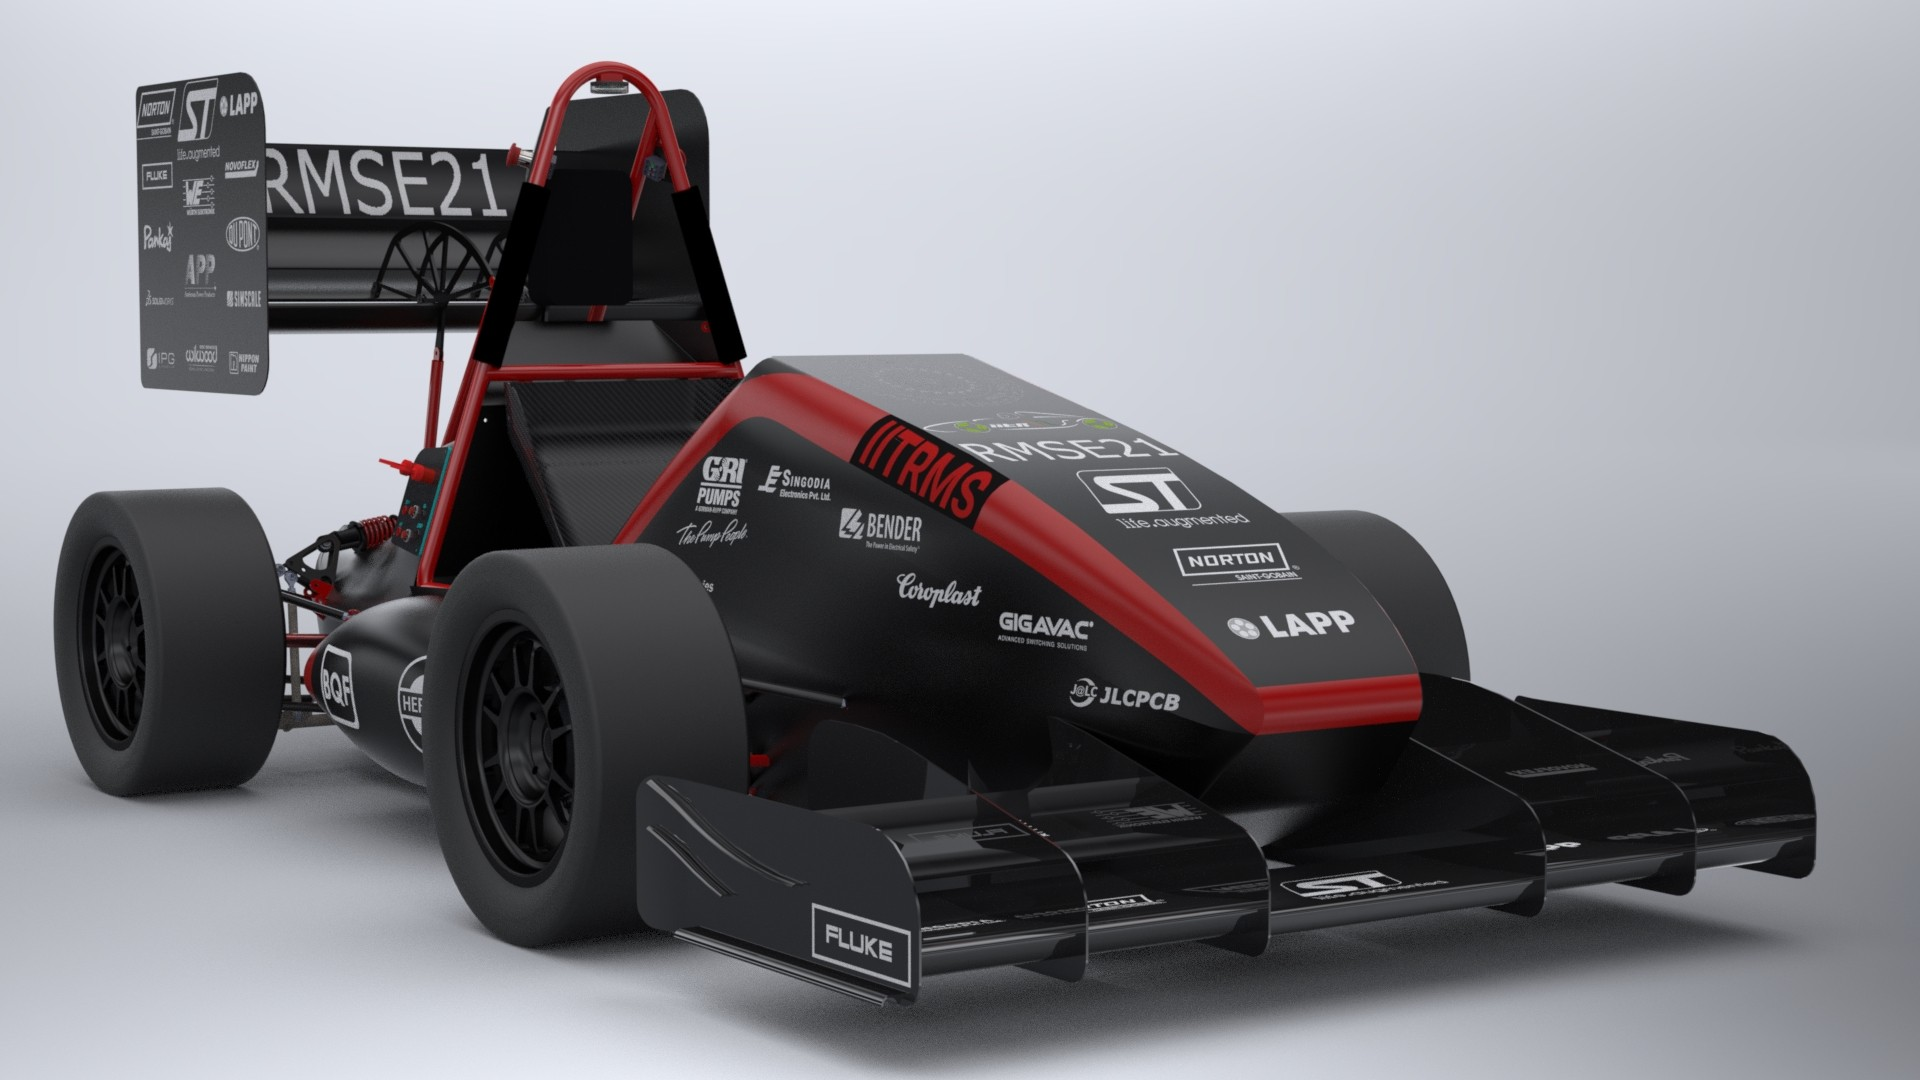
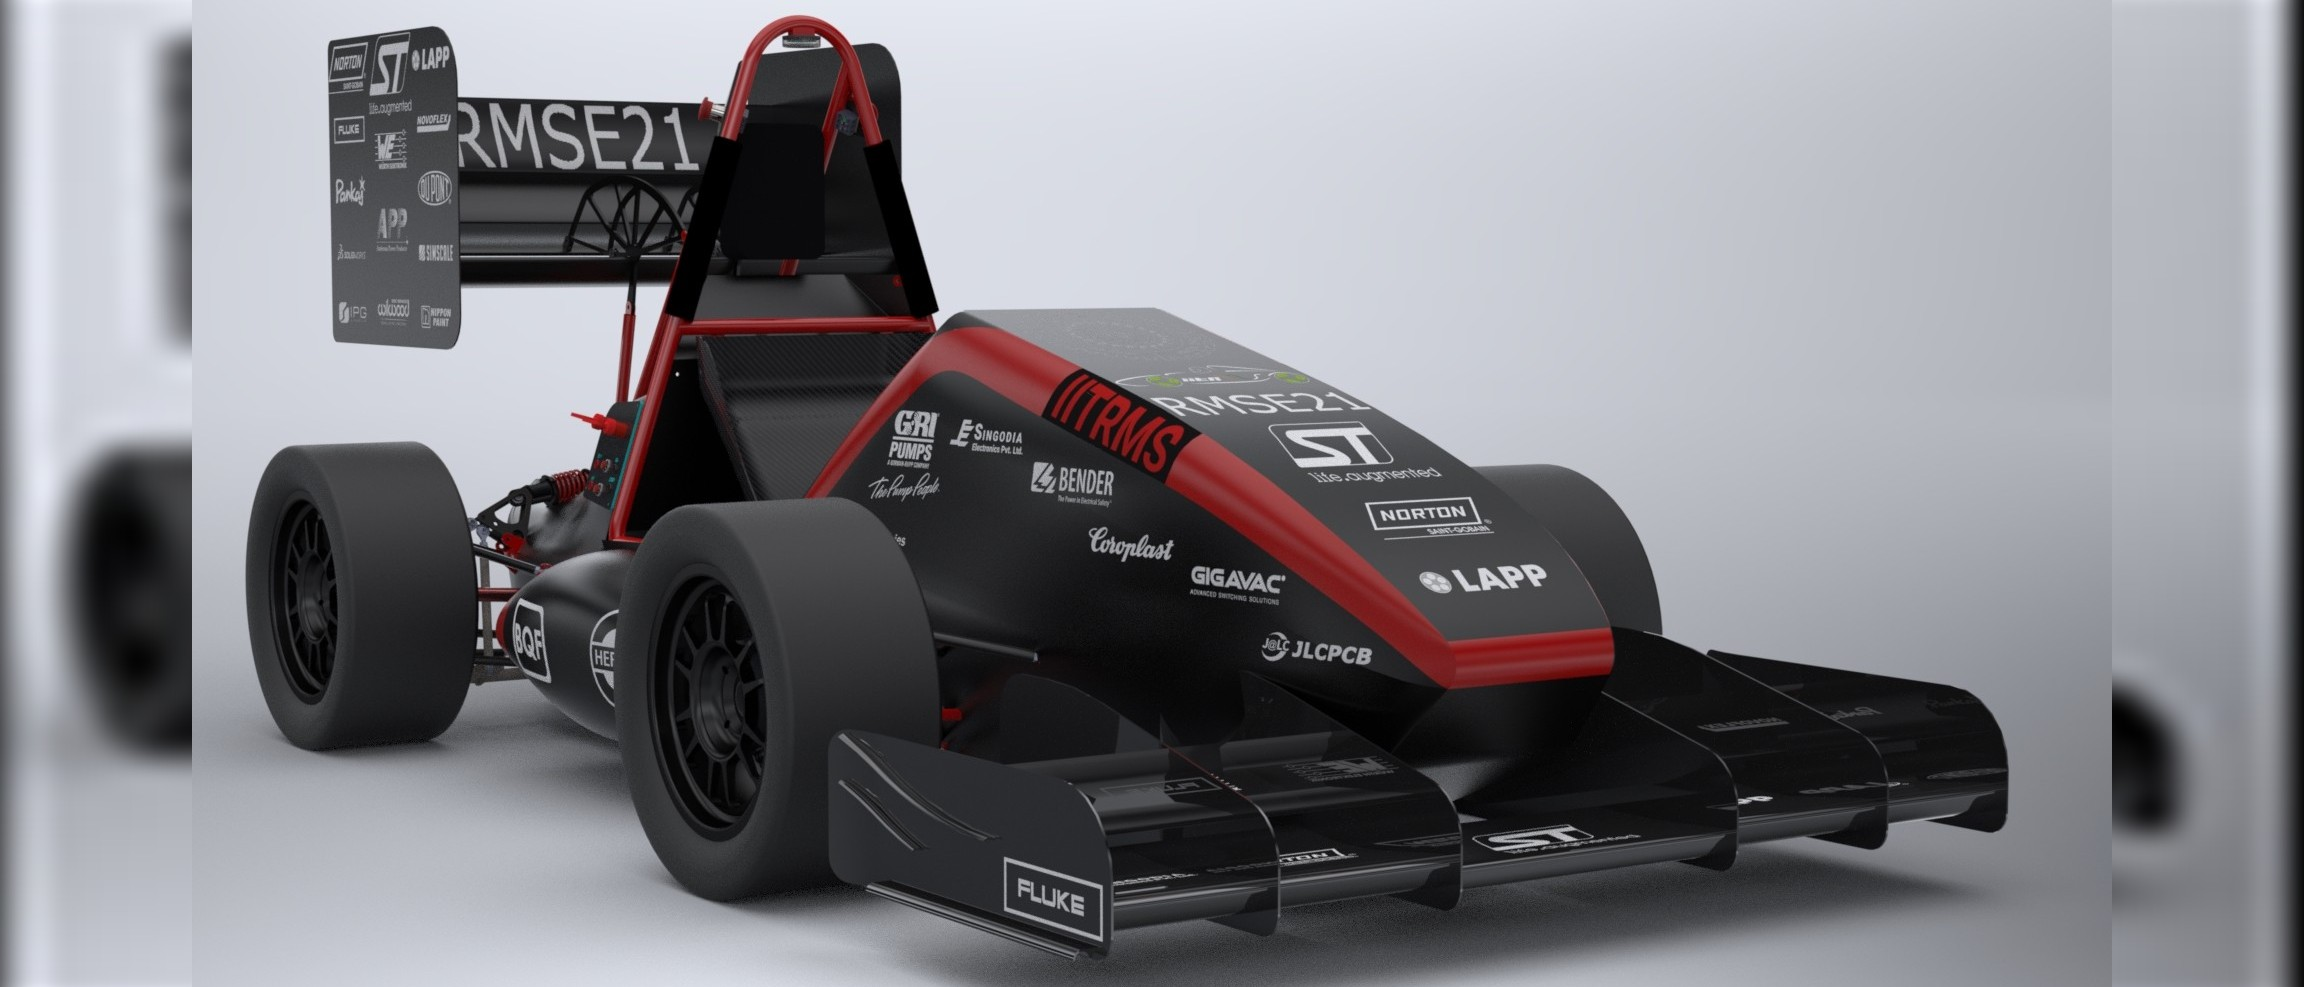
Add category-filterable sub-projects to RMSE'23/'21, fix hero crops
- Fix Escape key globally: it now pops one modal layer at a time
  instead of always closing the whole stack.
- Add a general filterable-tags mode to projectDetail(): when every
  sub-project has a `category` matching one of the project's tags,
  the tags render as clickable filter buttons below the "Disciplines
  & sub-projects" heading (text shortened, dropping "— open one for
  the full detail") instead of static pills above it, and the grid
  starts empty until a category is selected. Falls back to the old
  static-pills/full-grid behavior for projects without per-sub
  categories (e.g. RMSE21 pre-migration state, other projects).
- RMSE'23: reorder tags to Structures & Composites / Thermal & Energy
  Systems / Electronics & Controls / Vehicle Dynamics & Simulation,
  drop the Formula Student pill, tag each sub-project's category, and
  remove the redundant "Season Strategy & Results" sub-project. Update
  summary, drop the chassis-stiffness metric box, add the team-site
  link, and recomposite the hero photo (widened with a blurred pad and
  recropped) so the car isn't cut off.
- RMSE'21: same tags/filter/category treatment, new summary, replace
  metrics with the four Formula Bharat Virtual '22 placements, drop
  the redundant "Competition Results" sub-project, add the team-site
  link, and recomposite its hero render the same way.
- IEM'26: replace the tag pills with a single RMSE23-style metric box
[…]

diff --git a/data/content.js b/data/content.js
@@ -139,7 +139,7 @@ window.SITE_CONTENT = {
   subprojects: {
     rmse23: [
       {
-        id: "chassis", title: "Chassis & Composite Structures", image: "assets/img/placeholder-project.svg",
+        id: "chassis", title: "Chassis & Composite Structures", category: "Structures & Composites", image: "assets/img/placeholder-project.svg",
         highlights: ["+30% torsional stiffness, to 1755 N·m/°", "1.3 FOS at 40g, Tsai-Wu checked in ANSYS ACP"],
         bullets: [
           "Raised chassis torsional stiffness 30% to 1755 N·m/° with CFRP floor closeouts, correlated between FEA and twist-rig tests.",
@@ -151,7 +151,7 @@ window.SITE_CONTENT = {
         metrics: [{ label: "Torsional stiffness", value: "1755 N·m/° (+30%)" }, { label: "Mass saved (mounts/pedals)", value: "1.2 kg" }, { label: "Laminate FOS", value: "1.3 @ 40g" }]
       },
       {
-        id: "dynamics", title: "Vehicle Dynamics & Lap-Time Simulation", image: "assets/img/placeholder-project.svg",
+        id: "dynamics", title: "Vehicle Dynamics & Lap-Time Simulation", category: "Vehicle Dynamics & Simulation", image: "assets/img/placeholder-project.svg",
         highlights: ["65 kW powertrain set via OptimumLap", "Pacejka MF 5.2 tyre models from TTC data"],
         bullets: [
           "Built OptimumLap point-mass simulations at the tyre traction limit, generating power sensitivity curves that set a 65 kW powertrain.",
@@ -162,7 +162,7 @@ window.SITE_CONTENT = {
         metrics: [{ label: "Powertrain set", value: "65 kW" }, { label: "LLTD target", value: "47-53" }, { label: "Brake bias", value: "3.1" }]
       },
       {
-        id: "aero-thermal", title: "Powertrain Cooling", image: "assets/img/placeholder-project.svg",
+        id: "aero-thermal", title: "Powertrain Cooling", category: "Thermal & Energy Systems", image: "assets/img/placeholder-project.svg",
         highlights: ["2 kW heat duty modeled over endurance cycle", "Bench-validated to 136 kPa, 7.5 LPM"],
         bullets: [
           "Modeled motor and inverter losses over the endurance cycle to set a 2 kW heat duty, driving a transient Simulink model of the coolant loop.",
@@ -172,7 +172,7 @@ window.SITE_CONTENT = {
         metrics: [{ label: "Heat duty", value: "2 kW" }, { label: "Bench operating point", value: "136 kPa, 7.5 LPM" }]
       },
       {
-        id: "electronics", title: "LV Electronics & Harness", image: "assets/img/placeholder-project.svg",
+        id: "electronics", title: "LV Electronics & Harness", category: "Electronics & Controls", image: "assets/img/placeholder-project.svg",
         highlights: ["LV power card: 360 W at 92% efficiency", "Bench-verified before scrutineering"],
         bullets: [
           "Designed an LV power distribution card delivering 360 W at 92% efficiency, alongside APPS, brake-plausibility, and DAQ boards.",
@@ -180,22 +180,11 @@ window.SITE_CONTENT = {
           "Routed the vehicle harness and coolant lines in CAD, validating bend radii and service access."
         ],
         metrics: [{ label: "LV power card", value: "360 W @ 92%" }]
-      },
-      {
-        id: "strategy", title: "Season Strategy & Results", image: "assets/img/placeholder-project.svg",
-        highlights: ["1st among Asian teams, Engineering Design", "2nd among Asian teams, Cost & Manufacturing"],
-        bullets: [
-          "Set season targets for reliability, competitiveness, and manufacturability, restructuring the design process across every vertical.",
-          "Built a design and cost BOM tool for the full vehicle, taking 2nd among Asian teams in the FSUK'23 Cost & Manufacturing event.",
-          "Placed 1st among all Asian teams in the FSUK'23 Engineering Design Event (EV category) at Silverstone.",
-          "Won the MathWorks Modeling Award (1st place) at Formula Bharat '23 for the team's modeling and simulation work."
-        ],
-        metrics: [{ label: "FSUK'23 Engineering Design", value: "1st, Asian teams" }, { label: "FSUK'23 Cost & Manufacturing", value: "2nd, Asian teams" }, { label: "MathWorks Modeling Award", value: "1st, Formula Bharat '23" }]
       }
     ],
     rmse21: [
       {
-        id: "powertrain", title: "Powertrain, Tyres & Lap-Time Model", image: "assets/img/placeholder-project.svg",
+        id: "powertrain", title: "Powertrain, Tyres & Lap-Time Model", category: "Vehicle Dynamics & Simulation", image: "assets/img/placeholder-project.svg",
         highlights: ["12% wheel-torque gain", "Longitudinal tyre-slip ABS/TC model"],
         bullets: [
           "Selected the motor, differential, and gear ratio from tyre-slip models, gaining 12% wheel torque.",
@@ -205,7 +194,7 @@ window.SITE_CONTENT = {
         metrics: [{ label: "Wheel torque gain", value: "12%" }, { label: "Lap-time gain (ABS/TC)", value: "7%" }, { label: "Pack", value: "538V / 18Ah" }]
       },
       {
-        id: "aero", title: "Brake & Accumulator Thermal", image: "assets/img/placeholder-project.svg",
+        id: "aero", title: "Brake & Accumulator Thermal", category: "Thermal & Energy Systems", image: "assets/img/placeholder-project.svg",
         highlights: ["AISI 4130 discs sized for 300-450°C", "1.2 kW forced-air accumulator cooling"],
         bullets: [
           "Modeled brake-disc temperature and convective loss over a 300s drive cycle, sizing AISI 4130 discs for 300-450°C endurance.",
@@ -214,7 +203,7 @@ window.SITE_CONTENT = {
         metrics: [{ label: "Disc endurance range", value: "300-450°C" }, { label: "Accumulator cooling", value: "1.2 kW rejected" }]
       },
       {
-        id: "battery", title: "Electronics & BMS", image: "assets/img/placeholder-project.svg",
+        id: "battery", title: "Electronics & BMS", category: "Electronics & Controls", image: "assets/img/placeholder-project.svg",
         highlights: ["Segment BMS on bq79616, passive balancing", "Latched shutdown circuit (BSPD/IMD/BMS)"],
         bullets: [
           "Built segment BMS boards using bq79616 with passive balancing, feeding cell-voltage and thermistor faults to the shutdown circuit.",
@@ -224,7 +213,7 @@ window.SITE_CONTENT = {
         metrics: [{ label: "Pre-charge close-in", value: "95% DC bus" }]
       },
       {
-        id: "controls", title: "Structures & Full-Vehicle CAD", image: "assets/img/placeholder-project.svg",
+        id: "controls", title: "Structures & Full-Vehicle CAD", category: "Structures & Composites", image: "assets/img/placeholder-project.svg",
         highlights: ["25% mass cut at 1.2 Goodman FOS", "800-part master assembly, 14 kinematic iterations"],
         bullets: [
           "Built fully parametric CAD driven by VD hardpoints, regenerating uprights, rockers, and A-arms across 14 kinematic iterations.",
@@ -233,12 +222,6 @@ window.SITE_CONTENT = {
           "Owned the full-vehicle master CAD assembly, integrating 800 parts across all subsystems with clearance and interference checks."
         ],
         metrics: [{ label: "Mass reduction", value: "25%" }, { label: "Fatigue safety factor", value: "1.2 (Goodman)" }, { label: "Master assembly", value: "800 parts" }]
-      },
-      {
-        id: "results", title: "Competition Results", image: "assets/img/placeholder-project.svg",
-        highlights: ["3rd overall, Formula Bharat Virtual '22", "1st Business Plan · 3rd Engineering Design"],
-        bullets: ["Placed 1st in the Business Plan event, 3rd in Engineering Design, and 3rd overall at Formula Bharat Virtual '22 (EV category)."],
-        metrics: [{ label: "Overall", value: "3rd" }, { label: "Business Plan", value: "1st" }]
       }
     ]
   },
@@ -326,9 +309,13 @@ window.SITE_CONTENT = {
       period: "Sep 2025 – Present",
       image: "assets/img/projects/iem26.webp",
       heroPosition: "50% 78%",
-      tags: ["Vehicle Dynamics & Simulation", "3rd in Engineering Design — FSAEM 2026"],
+      tags: [],
+      hideTagsRow: true,
       summary: "Powertrain and Vehicle Dynamics Engineer",
       bullets: [],
+      metrics: [
+        { label: "Engineering Design, FSAEM 2026", value: "3rd" }
+      ],
       links: [
         { label: "Team site", url: "https://www.illinielectricmotorsports.com/" },
         { label: "Project write-up / demo video", url: "— add link —", isPlaceholder: true }
@@ -388,15 +375,15 @@ window.SITE_CONTENT = {
       context: "Formula Student",
       period: "Apr 2022 – Jul 2023",
       image: "assets/img/projects/rmse23.jpg",
-      tags: ["Vehicle Dynamics & Simulation", "Structures & Composites", "Thermal & Energy Systems", "Electronics & Controls"],
-      summary: "Chassis, vehicle dynamics, powertrain cooling, and LV electronics for the team's third EV — 1st in Engineering Design and 2nd in Cost & Manufacturing at FSUK'23.",
+      tags: ["Structures & Composites", "Thermal & Energy Systems", "Electronics & Controls", "Vehicle Dynamics & Simulation"],
+      summary: "Mechanical Head and Powertrain & Braking Head",
       metrics: [
-        { label: "Chassis torsional stiffness", value: "1755 N·m/° (+30%)" },
         { label: "FSUK'23 Engineering Design", value: "1st, Asian teams" },
         { label: "FSUK'23 Cost & Manufacturing", value: "2nd, Asian teams" },
         { label: "MathWorks Modeling Award", value: "1st, Formula Bharat '23" }
       ],
       links: [
+        { label: "Team site", url: "https://motorsports.iitr.ac.in/" },
         { label: "Technical report / photos", url: "— add link —", isPlaceholder: true }
       ]
     },
@@ -458,8 +445,8 @@ window.SITE_CONTENT = {
       context: "Formula Student",
       period: "Jan 2021 – Dec 2021",
       image: "assets/img/projects/rmse21.jpg",
-      tags: ["Vehicle Dynamics & Simulation", "Structures & Composites", "Thermal & Energy Systems", "Electronics & Controls"],
-      summary: "Powertrain selection, brake/accumulator thermal, full-vehicle structures, and BMS electronics for the team's second EV.",
+      tags: ["Structures & Composites", "Thermal & Energy Systems", "Electronics & Controls", "Vehicle Dynamics & Simulation"],
+      summary: "Powertrain & Braking Engineer",
       bullets: [
         "Selected the motor, differential, and gear ratio from tyre-slip models, gaining 12% wheel torque.",
         "Simulated ABS and traction control from a longitudinal tyre-slip model, showing a 7% lap-time gain.",
@@ -476,12 +463,13 @@ window.SITE_CONTENT = {
         "Placed 1st in the Business Plan event, 3rd in Engineering Design, and 3rd overall at Formula Bharat Virtual '22 (EV category)."
       ],
       metrics: [
-        { label: "Wheel torque gain", value: "12%" },
-        { label: "Mass reduction (suspension/drivetrain)", value: "25%" },
-        { label: "Master assembly", value: "800 parts" },
-        { label: "Formula Bharat Virtual '22", value: "3rd overall" }
+        { label: "Business Plan Presentation, Formula Bharat Virtual '22", value: "1st" },
+        { label: "Team Management, Formula Bharat Virtual '22", value: "2nd" },
+        { label: "Engineering Design Report, Formula Bharat Virtual '22", value: "3rd" },
+        { label: "Overall, Electric Teams — Formula Bharat Virtual '22", value: "3rd" }
       ],
       links: [
+        { label: "Team site", url: "https://motorsports.iitr.ac.in/" },
         { label: "Technical report / photos", url: "— add link —", isPlaceholder: true }
       ]
     },

diff --git a/assets/js/main.js b/assets/js/main.js
@@ -223,7 +223,9 @@
   $("#modalClose").addEventListener("click", closeModal);
   $("#modalBackdrop").addEventListener("click", closeModal);
   document.addEventListener("keydown", (e) => {
-    if (e.key === "Escape" && !modal.hidden) closeModal();
+    if (e.key === "Escape" && !modal.hidden) {
+      if (stack.length > 1) popView(); else closeModal();
+    }
   });
 
   const makeTile = (html, onOpen, cls) => {
@@ -254,28 +256,59 @@
 
   function projectDetail(p) {
     const subs = (C.subprojects && C.subprojects[p.id]) || [];
+    const filterable = subs.length > 0 && subs.every((s) => s.category);
     const box = el("div", "detail");
     box.innerHTML = `
       <div class="detail-hero${p.imageFit === "contain" ? " detail-hero-contain" : ""}"><img src="${esc(p.image)}" alt="${esc(p.title)}"${p.heroPosition ? ` style="object-position: ${esc(p.heroPosition)}"` : ""}></div>
       <div class="detail-kicker">${esc(p.period)} · ${esc(p.org)}</div>
       <h2 class="detail-title">${esc(p.title)}</h2>
       <p class="detail-summary">${esc(p.summary)}</p>
-      <div class="project-tags">${p.tags.map((t) => `<span class="ptag">${esc(t)}</span>`).join("")}<span class="ptag">${esc(p.context)}</span></div>
+      ${(!filterable && !p.hideTagsRow && (p.tags.length || p.context)) ? `<div class="project-tags">${p.tags.map((t) => `<span class="ptag">${esc(t)}</span>`).join("")}${p.context ? `<span class="ptag">${esc(p.context)}</span>` : ""}</div>` : ""}
       ${metricsRow(p.metrics)}
     `;
     if (subs.length) {
-      const h = el("h4", "detail-sub", "Disciplines &amp; sub-projects — open one for the full detail");
+      const headingText = filterable ? "Disciplines &amp; sub-projects" : "Disciplines &amp; sub-projects — open one for the full detail";
+      box.appendChild(el("h4", "detail-sub", headingText));
+
       const grid = el("div", "tile-grid");
-      subs.forEach((s) => {
-        grid.appendChild(makeTile(`
-          <div class="tile-image"><img src="${esc(s.image)}" alt="${esc(s.title)}" loading="lazy"></div>
-          <div class="tile-body">
-            <h3>${esc(s.title)}</h3>
-            <ul class="tile-hl">${s.highlights.map((h) => `<li>${esc(h)}</li>`).join("")}</ul>
-            <div class="tile-cta">Open detail →</div>
-          </div>`, () => pushView({ crumb: shortTitle(s.title), render: () => subDetail(p, s) })));
-      });
-      box.appendChild(h); box.appendChild(grid);
+      const renderGrid = (activeCat) => {
+        grid.innerHTML = "";
+        const visible = filterable ? subs.filter((s) => s.category === activeCat) : subs;
+        visible.forEach((s) => {
+          grid.appendChild(makeTile(`
+            <div class="tile-image"><img src="${esc(s.image)}" alt="${esc(s.title)}" loading="lazy"></div>
+            <div class="tile-body">
+              <h3>${esc(s.title)}</h3>
+              <ul class="tile-hl">${s.highlights.map((h) => `<li>${esc(h)}</li>`).join("")}</ul>
+              <div class="tile-cta">Open detail →</div>
+            </div>`, () => pushView({ crumb: shortTitle(s.title), render: () => subDetail(p, s) })));
+        });
+      };
+
+      if (filterable) {
+        let activeCat = null;
+        const filterRow = el("div", "project-tags proj-filter-row");
+        const buttons = p.tags.map((cat) => {
+          const btn = el("span", "ptag ptag-filter", esc(cat));
+          btn.tabIndex = 0;
+          btn.setAttribute("role", "button");
+          filterRow.appendChild(btn);
+          return btn;
+        });
+        buttons.forEach((btn, i) => {
+          const onActivate = () => {
+            const cat = p.tags[i];
+            activeCat = activeCat === cat ? null : cat;
+            buttons.forEach((b, j) => b.classList.toggle("ptag-active", p.tags[j] === activeCat));
+            renderGrid(activeCat);
+          };
+          btn.addEventListener("click", onActivate);
+          btn.addEventListener("keydown", (ev) => { if (ev.key === "Enter" || ev.key === " ") { ev.preventDefault(); onActivate(); } });
+        });
+        box.appendChild(filterRow);
+      }
+      renderGrid(null);
+      box.appendChild(grid);
     } else {
       const h = el("h4", "detail-sub", "Development highlights");
       const ul = el("ul", "detail-list", p.bullets.map((b) => `<li>${esc(b)}</li>`).join(""));

diff --git a/assets/css/style.css b/assets/css/style.css
@@ -417,6 +417,10 @@ button.stat-clickable .stat-label { text-decoration: underline dotted var(--text
 .project-org { font-size: 13px; color: var(--text-dim); margin-top: -8px; }
 .project-tags { display: flex; flex-wrap: wrap; gap: 6px; }
 .ptag { font-family: var(--mono); font-size: 10.5px; padding: 3px 8px; border: 1px solid var(--line); color: var(--text-dim); border-radius: var(--radius); }
+.proj-filter-row { margin: 14px 0 20px; }
+.ptag-filter { cursor: pointer; transition: border-color 0.15s, color 0.15s; }
+.ptag-filter:hover { border-color: var(--accent); color: var(--accent); }
+.ptag-filter.ptag-active { border-color: var(--accent); color: var(--accent); background: rgba(var(--accent-rgb, 220, 90, 60), 0.08); }
 
 .metric-row { display: flex; flex-wrap: wrap; gap: 10px; margin-top: 4px; }
 .metric {
